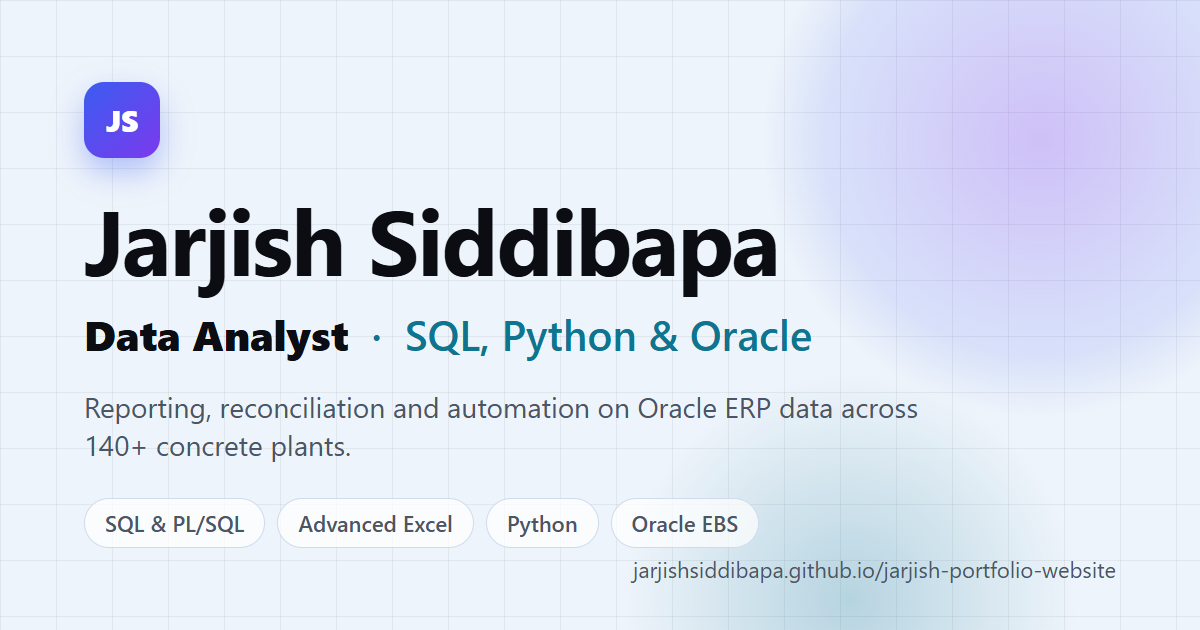
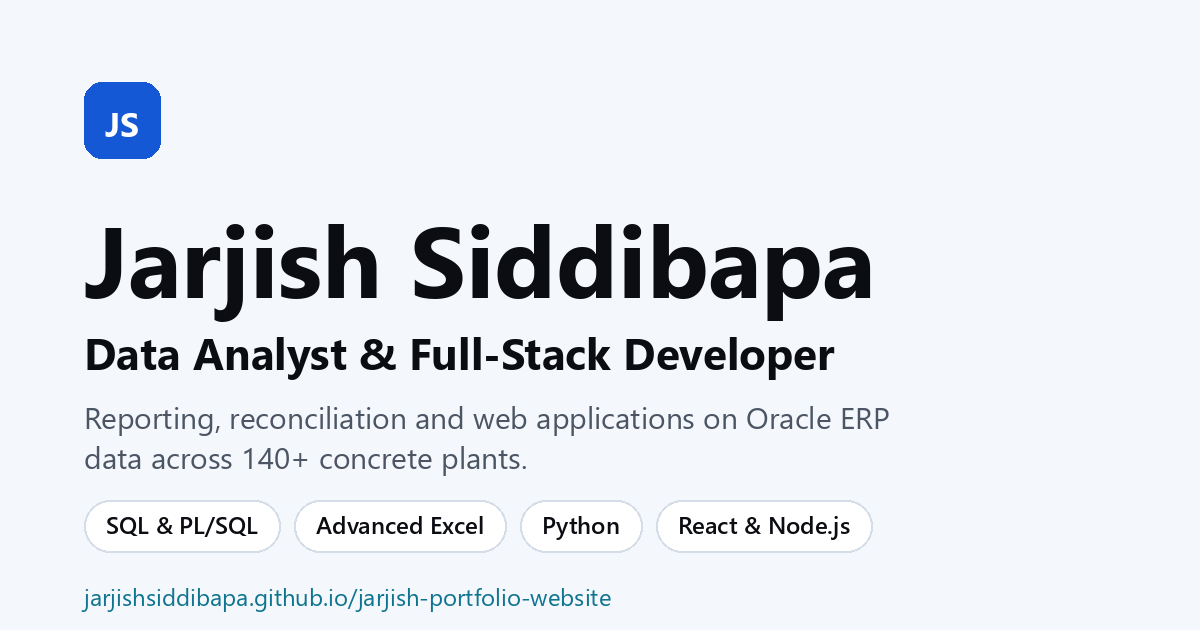
Reposition as Data Analyst & Full-Stack Developer; add ManageEngine Analytics and Digitization Review
Rewrite headline, bio, skills (new Web Development group), experience, SEO copy and share image to match the work actually done, and drop the MIS wording. Databricks/PySpark is no longer featured.

diff --git a/src/data/projects.ts b/src/data/projects.ts
@@ -26,6 +26,18 @@ export const projects: ProjectEntry[] = [
     githubFeatured: true,
   },
   {
+    id: 'manageengine-analytics', title: 'ManageEngine Analytics', category: 'Web Applications',
+    context: 'Professional work · IT service desk reporting',
+    problem: 'ServiceDesk Plus could not show how long each technician takes to close requests, or how requests are handled along the way.',
+    description: 'A full-stack analytics application that reads service requests from ManageEngine and turns them into technician turnaround, handling and team dashboards, with Excel reports and user management.',
+    highlights: ['Turnaround by technician, plus reassignments, reopens, first reply and time on hold from the change history of roughly 60,000 requests', 'Scheduled incremental and daily deep syncs, with Excel, CSV and PNG downloads on every chart', 'Admin, manager and viewer roles, an activity log, encrypted connection secrets and scheduled database backups'],
+    stack: ['React', 'Node.js', 'Express', 'MySQL', 'Ant Design', 'Recharts', 'Excel reports'],
+    impact: 'Request-handling analytics across roughly 60,000 service requests, read-only against the source system.',
+    links: [{ label: 'GitHub', href: 'https://github.com/jarjishSiddibapa/rdc-manageengine-analytics' }],
+    featured: true,
+    githubFeatured: true,
+  },
+  {
     id: 'so-ageing-pipeline', title: 'Self-Auditing SO Ageing Pipeline', category: 'Data & Analytics',
     context: 'Professional work · RDC Concrete',
     problem: 'A successful data push alone could not establish that ERP ageing data had been delivered completely.',
@@ -63,7 +75,6 @@ export const projects: ProjectEntry[] = [
       'Delta Lake MERGE/upserts and partition-aware processing',
     ],
     stack: ['Databricks', 'PySpark', 'Spark SQL', 'Delta Lake'],
-    featured: true,
     impact: 'Practice in repeatable transformations and incremental loading; a learning project, not an RDC production system',
   },
   {
@@ -85,7 +96,7 @@ export const projects: ProjectEntry[] = [
   {
     id: 'pdc-manager',
     title: 'RDC PDC Manager',
-    category: 'Reporting & Automation',
+    category: 'Web Applications',
     context: 'Professional work · Finance operations',
     description:
       'A role-based Flask application that manages post-dated cheques from collection to clearance, with a 13-status workflow, ERP-synchronised master data, dashboards and an Excel report builder.',
@@ -102,7 +113,7 @@ export const projects: ProjectEntry[] = [
   {
     id: 'onboarding-portal',
     title: 'RDC Employee Onboarding Portal',
-    category: 'Reporting & Automation',
+    category: 'Web Applications',
     context: 'Professional work · HR operations',
     description:
       'A role-based Flask application that takes a new hire from hiring request to registration in the attendance system through a configurable multi-step approval workflow, with a staffing-norms gate that blocks over-norm hiring.',
@@ -115,6 +126,23 @@ export const projects: ProjectEntry[] = [
     impact: 'One audited route from hiring request to attendance registration, backed by 362 automated tests.',
     githubFeatured: true,
     links: [{ label: 'GitHub', href: 'https://github.com/jarjishSiddibapa/rdc_onboarding' }],
+  },
+  {
+    id: 'digitization-review',
+    title: 'RDC Digitization Review',
+    category: 'Web Applications',
+    context: 'Professional work · Service request and digitization tracking',
+    description:
+      'A role-based internal platform for service requests and digitization projects, with a 30-minute ManageEngine sync, Excel bulk updates, weekly PDF report import and field-level history.',
+    highlights: [
+      'Download, edit and upload Excel round trip with previews, diff-only updates and transactional writes',
+      'Dashboard figures calculated on the server, with overdue logic per request category',
+      'Admin, editor and viewer roles, scheduled MySQL backups and a CI-tested codebase',
+    ],
+    stack: ['React', 'Node.js', 'Express', 'MySQL', 'Ant Design', 'JWT', 'GitHub Actions'],
+    impact: 'One tracked source of truth in place of separate status files, vendor reports and manual follow-ups.',
+    githubFeatured: true,
+    links: [{ label: 'GitHub', href: 'https://github.com/jarjishSiddibapa/rdc-erp-meeting-tracker' }],
   },
   {
     id: 'digital-signature-app',
@@ -149,7 +177,7 @@ export const projects: ProjectEntry[] = [
   {
     id: 'ai-chatbot',
     title: 'AI Chatbot for Corporate Website',
-    category: 'Other Projects',
+    category: 'Web Applications',
     description:
       'A multilingual, voice-enabled chat assistant for the corporate website, built on Gemini with Google Search grounding and Google Cloud Text-to-Speech, behind a Flask API and a lightweight chat widget.',
     highlights: [
@@ -202,7 +230,7 @@ export const projects: ProjectEntry[] = [
   },
 ]
 
-export const projectCategories = ['All', 'Data & Analytics', 'Reporting & Automation', 'Data Engineering', 'Other Projects'] as const
+export const projectCategories = ['All', 'Data & Analytics', 'Reporting & Automation', 'Web Applications', 'Data Engineering', 'Other Projects'] as const
 
 export const pinnedRepoSlugs = projects
   .filter((project) => project.githubFeatured)

diff --git a/src/data/profile.ts b/src/data/profile.ts
@@ -5,28 +5,28 @@ const resumeHref = `${import.meta.env.BASE_URL}resume/Jarjish-Siddibapa-Resume.p
 export const profile = {
   name: 'Jarjish Siddibapa',
   initials: 'JS',
-  primaryRole: 'Data Analyst',
-  role: 'Data Analyst | SQL & PL/SQL | Python | Excel | Oracle EBS',
+  primaryRole: 'Data Analyst & Full-Stack Developer',
+  role: 'Data Analyst & Full-Stack Developer | SQL & PL/SQL | Advanced Excel | Python | React & Node.js',
   roles: [
     'SQL & PL/SQL',
-    'Python & Data Automation',
-    'Reporting & Reconciliation',
+    'Advanced Excel',
+    'Python & Automation',
+    'Full-Stack Web Applications',
     'Oracle EBS Analytics',
-    'Databricks & PySpark',
   ],
   tagline:
-    'I turn operational and Oracle ERP data across 140+ concrete plants into accurate reports, automated workflows and decision-ready insights.',
+    'I analyse Oracle ERP data across 140+ concrete plants with SQL, Python and advanced Excel, and build the web applications and automation that put reliable numbers in front of the teams who use them.',
   bio: [
-    "I'm a Data Analyst (Graduate Engineer Trainee) at RDC Concrete in Thane. Since October 2025, I've worked with SQL, PL/SQL, Oracle EBS, Python and Excel to improve operational reporting, finance workflows and ERP data quality across 140+ concrete plants.",
+    "I'm a Data Analyst (Graduate Engineer Trainee) at RDC Concrete in Thane. Since October 2025, I've worked with SQL, PL/SQL, Oracle EBS, Python and advanced Excel to improve reporting, finance workflows and ERP data quality across 140+ concrete plants.",
     'My work connects analysis with measurable improvements: Accounts Payables reporting replaces about an hour of daily manual work, while validated Balance Confirmation and Payment Reminder workflows turn a 2–3 day process into minutes. Python/OCR document processing has reduced manual handling by approximately 80%.',
-    'I build validation into the workflow, from SQL reconciliation and master-data checks to a self-auditing SO Ageing feed. Alongside this professional work, I am developing hands-on Databricks and PySpark skills in data transformation, incremental loads and Delta Lake.',
+    'I also build the applications around the data: Flask, FastAPI and Node/Express back ends with React front ends and MySQL, including role-based access, audit trails, scheduled ERP and ManageEngine syncs, Excel reporting and automated backups. The code for these is on my GitHub.',
   ],
   location: 'Thane, Maharashtra, India',
   openTo: 'Remote, hybrid & on-site across Thane, Navi Mumbai & Mumbai',
   email: 'jarjishsiddibapa@gmail.com',
   phone: '+91 7249550565',
   resumeHref,
-  availability: 'Open to Data Analyst roles',
+  availability: 'Open to Data Analyst & Full-Stack roles',
 }
 
 export const socials: SocialLink[] = [
@@ -39,7 +39,7 @@ export const socials: SocialLink[] = [
 
 export const stats: StatEntry[] = [
   { id: 'plants', label: 'Concrete plants covered by automation', value: 140, suffix: '+' },
-  { id: 'reporting', label: 'Daily manual AP reporting automated', value: 1, suffix: ' hr' },
+  { id: 'apps', label: 'Applications and tools built for RDC teams', value: 11 },
   { id: 'ocr', label: 'Reduction in manual document handling', value: 80, suffix: '%' },
   { id: 'cgpa', label: 'CGPA in B.E. Computer Science (Hons. AI/ML)', value: 9.54, suffix: '/10' },
 ]
@@ -49,7 +49,9 @@ export const githubUsername = 'jarjishSiddibapa'
 export const aboutPillars = [
   { icon: 'BarChart3', title: 'Reporting & analysis', description: 'Production visibility, variance analysis and Excel reporting (SUMIFS, lookups, pivot tables) that help teams act on operational data.' },
   { icon: 'Database', title: 'Reconciliation & data quality', description: 'SQL and PL/SQL checks for complete, consistent ERP data and finance exception reporting.' },
-  { icon: 'Bot', title: 'Data automation', description: 'Python and REST API workflows that validate data and reduce repetitive reporting work.' },
+  { icon: 'Code2', title: 'Web applications & automation', description: 'Python, React and Node.js applications, REST APIs and scheduled jobs with role-based access and audit trails, replacing repetitive manual work.' },
 ]
 
-export const skillMarquee = ['SQL', 'PL/SQL', 'Python', 'Excel', 'Oracle EBS', 'Reporting', 'Reconciliation', 'Data Quality', 'pandas', 'REST APIs', 'Databricks', 'PySpark', 'SUMIFS', 'Pivot Tables', 'XLOOKUP']
+export const skillMarquee = [
+  'SQL', 'PL/SQL', 'Advanced Excel', 'Python', 'pandas', 'Oracle EBS', 'React', 'Node.js', 'Flask', 'FastAPI', 'MySQL', 'REST APIs', 'Reconciliation', 'Data Quality', 'Pivot Tables', 'XLOOKUP',
+]

diff --git a/src/data/experience.ts b/src/data/experience.ts
@@ -5,7 +5,7 @@ export const experience: ExperienceEntry[] = [
     id: 'rdc-concrete',
     role: 'Data Analyst (Graduate Engineer Trainee)',
     company: 'RDC Concrete', location: 'Thane, Maharashtra', start: 'Oct 2025', end: 'Present',
-    summary: 'Analyze operational and finance data using SQL, PL/SQL, Oracle EBS, Python and Excel, with a focus on reporting, reconciliation, data quality and repeatable automation.',
+    summary: 'Analyse operational and finance data with SQL, PL/SQL, Oracle EBS, Python and advanced Excel, and build the web applications and automation around it: reporting, reconciliation, data quality and role-based internal tools.',
     highlights: [
       'Built and deployed the Daily Volume Tracker for 140+ concrete plants, providing daily production and volume visibility and identifying zero-production locations.',
       'Designed a self-auditing SO Ageing workflow that refreshes Oracle EBS data every three hours and independently reconciles delivery over a 24-hour window.',
@@ -13,6 +13,7 @@ export const experience: ExperienceEntry[] = [
       'Built validated datasets, automated PDF generation and email distribution for Balance Confirmation and Payment Reminder workflows, reducing a 2–3 day process to minutes.',
       'Developed SQL and PL/SQL logic for audit reconciliation, missing IOCL PO / Debit Memo detection, GST invoice checks, HSN/master-data quality and ERP reporting.',
       'Integrated REST API data and built Python/OCR document workflows that reduced manual document handling by approximately 80%.',
+      'Built full-stack internal web applications (React with Node/Express, Flask and FastAPI, on MySQL) with role-based access, audit history, scheduled syncs and Excel reports, including ServiceDesk analytics over roughly 60,000 service requests.',
     ],
     selectedProjects: [
       {
@@ -31,6 +32,16 @@ export const experience: ExperienceEntry[] = [
         href: 'https://github.com/jarjishSiddibapa/rdc-accounts-suite',
       },
       {
+        title: 'ManageEngine Analytics',
+        detail: 'React and Express dashboards on technician turnaround and SR handling, with scheduled syncs and Excel reports.',
+        href: 'https://github.com/jarjishSiddibapa/rdc-manageengine-analytics',
+      },
+      {
+        title: 'Digitization Review',
+        detail: 'Service-request and digitization tracker with ManageEngine sync, Excel bulk updates and an audit history.',
+        href: 'https://github.com/jarjishSiddibapa/rdc-erp-meeting-tracker',
+      },
+      {
         title: 'PDC Manager',
         detail: 'Post-dated cheque workflow from collection to clearance, with Oracle ERP sync and an Excel report builder.',
         href: 'https://github.com/jarjishSiddibapa/rdc-pdc-project',
@@ -46,7 +57,7 @@ export const experience: ExperienceEntry[] = [
         href: 'https://github.com/jarjishSiddibapa/rdc-digital-signatures',
       },
     ],
-    stack: ['SQL', 'PL/SQL', 'Oracle EBS R12.2.10', 'Python', 'Excel', 'REST APIs', 'Tesseract OCR'],
+    stack: ['SQL', 'PL/SQL', 'Oracle EBS R12.2.10', 'Python', 'Advanced Excel', 'React', 'Node.js', 'Flask', 'FastAPI', 'MySQL', 'REST APIs'],
   },
   {
     id: 'aurionpro', role: 'Software Engineer Trainee', company: 'AurionPro',

diff --git a/src/data/skills.ts b/src/data/skills.ts
@@ -7,14 +7,19 @@ export const skillCategories: SkillCategory[] = [
     skills: ['Advanced SQL', 'PL/SQL', 'Complex joins', 'CTEs', 'Subqueries', 'Window functions', 'Aggregations', 'Stored procedures', 'Query optimization', 'Data reconciliation', 'Data validation', 'Data quality', 'Reporting', 'Anomaly / exception analysis'],
   },
   {
-    id: 'excel', title: 'Excel & Reporting', icon: 'Table2',
-    description: 'Summarise, look up and report on data in spreadsheets stakeholders already use.',
-    skills: ['Excel', 'SUMIFS / COUNTIFS / AVERAGEIFS', 'Aggregate functions', 'XLOOKUP / VLOOKUP / INDEX-MATCH', 'Pivot tables', 'Data cleaning', 'Excel reconciliation', 'Variance reporting'],
+    id: 'excel', title: 'Advanced Excel', icon: 'Table2',
+    description: 'Summarise, look up, reconcile and report on data in the spreadsheets stakeholders already use.',
+    skills: ['Excel', 'SUMIFS / COUNTIFS / AVERAGEIFS', 'Aggregate functions', 'XLOOKUP / VLOOKUP / INDEX-MATCH', 'Pivot tables', 'Data cleaning', 'Excel reconciliation', 'Variance reporting', 'Formatted Excel reports', 'Excel report automation'],
   },
   {
     id: 'python', title: 'Python & Data Analysis', icon: 'Code2',
     description: 'Clean and transform data, then automate repeatable analysis.',
-    skills: ['Python', 'pandas', 'NumPy', 'Excel automation', 'Data cleansing', 'Data transformation', 'REST API processing', 'Automated reporting', 'Matplotlib', 'Seaborn'],
+    skills: ['Python', 'pandas', 'NumPy', 'Excel automation', 'OCR & PDF processing', 'Data cleansing', 'Data transformation', 'REST API processing', 'Automated reporting', 'Matplotlib', 'Seaborn'],
+  },
+  {
+    id: 'webdev', title: 'Web Development', icon: 'Globe',
+    description: 'Full-stack internal applications, from database and API to a working interface.',
+    skills: ['React', 'JavaScript', 'TypeScript', 'Node.js', 'Express', 'Flask', 'FastAPI', 'REST API design', 'HTML & CSS', 'Tailwind CSS', 'Ant Design', 'Recharts / Chart.js', 'Role-based access (JWT)', 'OAuth 2.0', 'Scheduled sync jobs', 'Audit trails'],
   },
   {
     id: 'engineering', title: 'Data Engineering', icon: 'Plug',
@@ -24,6 +29,6 @@ export const skillCategories: SkillCategory[] = [
   {
     id: 'platforms', title: 'Databases & Platforms', icon: 'Database',
     description: 'Enterprise data systems and tools used to investigate and validate results.',
-    skills: ['Oracle EBS R12.2.10', 'Oracle SQL / PL/SQL', 'MySQL', 'PostgreSQL', 'Databricks notebooks', 'Jupyter Notebook', 'Git', 'Postman'],
+    skills: ['Oracle EBS R12.2.10', 'Oracle SQL / PL/SQL', 'MySQL', 'PostgreSQL', 'ManageEngine ServiceDesk Plus API', 'Databricks notebooks', 'Jupyter Notebook', 'Git & GitHub Actions', 'Postman', 'pytest'],
   },
 ]

diff --git a/index.html b/index.html
@@ -31,8 +31,8 @@
     <noscript>
       <main style="max-width:42rem;margin:0 auto;padding:4rem 1.5rem;font-family:system-ui,sans-serif;line-height:1.6;color:#0b0d12">
         <h1>Jarjish Siddibapa</h1>
-        <p><strong>Data Analyst</strong> (Graduate Engineer Trainee) at RDC Concrete, Thane, Maharashtra.</p>
-        <p>I use SQL, PL/SQL, Advanced Excel, Python and Oracle EBS to turn operational and ERP data across 140+ concrete plants into accurate reports, automated workflows and decision-ready insights. Open to Data Analyst roles in Thane, Navi Mumbai and Mumbai.</p>
+        <p><strong>Data Analyst &amp; Full-Stack Developer</strong> (Graduate Engineer Trainee) at RDC Concrete, Thane, Maharashtra.</p>
+        <p>I analyse Oracle ERP data across 140+ concrete plants with SQL, PL/SQL, Advanced Excel and Python, and build the web applications (React, Node.js, Flask, FastAPI, MySQL) and automation that put reliable numbers in front of the teams who use them. Open to Data Analyst and Full-Stack Developer roles in Thane, Navi Mumbai and Mumbai.</p>
         <ul>
           <li><a href="resume/Jarjish-Siddibapa-Resume.pdf">Resume (PDF)</a></li>
           <li><a href="https://github.com/jarjishSiddibapa">GitHub</a></li>

diff --git a/src/data/seo.ts b/src/data/seo.ts
@@ -1,7 +1,7 @@
 export const seo = {
-  title: 'Jarjish Siddibapa | Data Analyst | SQL, Python & Oracle',
-  description: 'Data Analyst in Thane / Mumbai using SQL, PL/SQL, Advanced Excel, Python and Oracle EBS for data analysis, reporting, reconciliation and automation.',
+  title: 'Jarjish Siddibapa | Data Analyst & Full-Stack Developer',
+  description: 'Data Analyst and full-stack developer in Thane / Mumbai: SQL, PL/SQL, Advanced Excel, Python, React and Node.js for reporting, reconciliation, automation and internal web applications.',
   siteUrl: 'https://jarjishsiddibapa.github.io/jarjish-portfolio-website/',
   imagePath: 'og-image.png',
-  imageAlt: 'Jarjish Siddibapa, Data Analyst: SQL, Python and Oracle',
+  imageAlt: 'Jarjish Siddibapa, Data Analyst and Full-Stack Developer: SQL, Excel, Python and React',
 }

diff --git a/src/sections/About.tsx b/src/sections/About.tsx
@@ -20,7 +20,7 @@ export function About() {
       <Container>
         <SectionHeading
           title="Accurate data. Useful reports. Less manual work."
-          description="An early-career Data Analyst working with enterprise data and the teams who depend on it."
+          description="An early-career data analyst and full-stack developer, working with enterprise data and the teams who depend on it."
         />
 
         <RevealGroup className="mt-12 grid gap-4 sm:grid-cols-3">

diff --git a/src/sections/Contact.tsx b/src/sections/Contact.tsx
@@ -74,7 +74,7 @@ ${email}`)
         <SectionHeading
           align="center"
           title="Let's talk data"
-          description="Open to Data Analyst roles: remote, hybrid or on-site across Thane, Navi Mumbai and Mumbai."
+          description="Open to Data Analyst and Full-Stack Developer roles: remote, hybrid or on-site across Thane, Navi Mumbai and Mumbai."
           className="mx-auto"
         />
 

diff --git a/src/types/index.ts b/src/types/index.ts
@@ -41,7 +41,7 @@ export interface EducationEntry {
 export interface ProjectEntry {
   id: string
   title: string
-  category: 'Reporting & Automation' | 'Data & Analytics' | 'Data Engineering' | 'Other Projects'
+  category: 'Reporting & Automation' | 'Data & Analytics' | 'Web Applications' | 'Data Engineering' | 'Other Projects'
   problem?: string
   context?: string
   description: string

diff --git a/src/sections/Hero.tsx b/src/sections/Hero.tsx
@@ -70,7 +70,6 @@ export function Hero() {
             className="mt-6 font-display text-2xl font-medium sm:text-3xl"
           >
             <span className="font-semibold text-ink">{profile.primaryRole}</span>
-            <span className="text-accent-3"> &middot; SQL &amp; PL/SQL &middot; Python &middot; Excel</span>
           </motion.p>
 
           <motion.p

diff --git a/src/utils/icon-map.tsx b/src/utils/icon-map.tsx
@@ -6,6 +6,7 @@ import {
   Plug,
   Code2,
   Table2,
+  Globe,
   type LucideIcon,
 } from 'lucide-react'
 
@@ -17,4 +18,5 @@ export const iconMap: Record<string, LucideIcon> = {
   Plug,
   Code2,
   Table2,
+  Globe,
 }

diff --git a/README.md b/README.md
@@ -109,7 +109,7 @@ Try the Konami code (`↑ ↑ ↓ ↓ ← → ← → b a`) anywhere on the site
 
 ## Career positioning
 
-The permanent headline is **Data Analyst**, supported by SQL/PLSQL, Python, Excel and Oracle EBS. The default project filter features Daily Volume Tracker, Accounts Suite, SO Ageing, finance reporting/communication automation, then Databricks/PySpark learning work. Other projects remain available through filters.
+The permanent headline is **Data Analyst & Full-Stack Developer**, supported by SQL/PLSQL, Advanced Excel, Python, React/Node.js and Oracle EBS. The default project filter features Daily Volume Tracker, Accounts Suite, ManageEngine Analytics, SO Ageing and finance reporting/communication automation. Databricks/PySpark is listed as learning work only. Other projects remain available through filters.
 
 The public resume is the supplied ATS Data Analyst PDF (updated September 5, 2026), copied byte-for-byte to the existing public path. A local source copy named `Jarjish Siddibapa Resume.pdf` is ignored to avoid publishing a duplicate.
 
